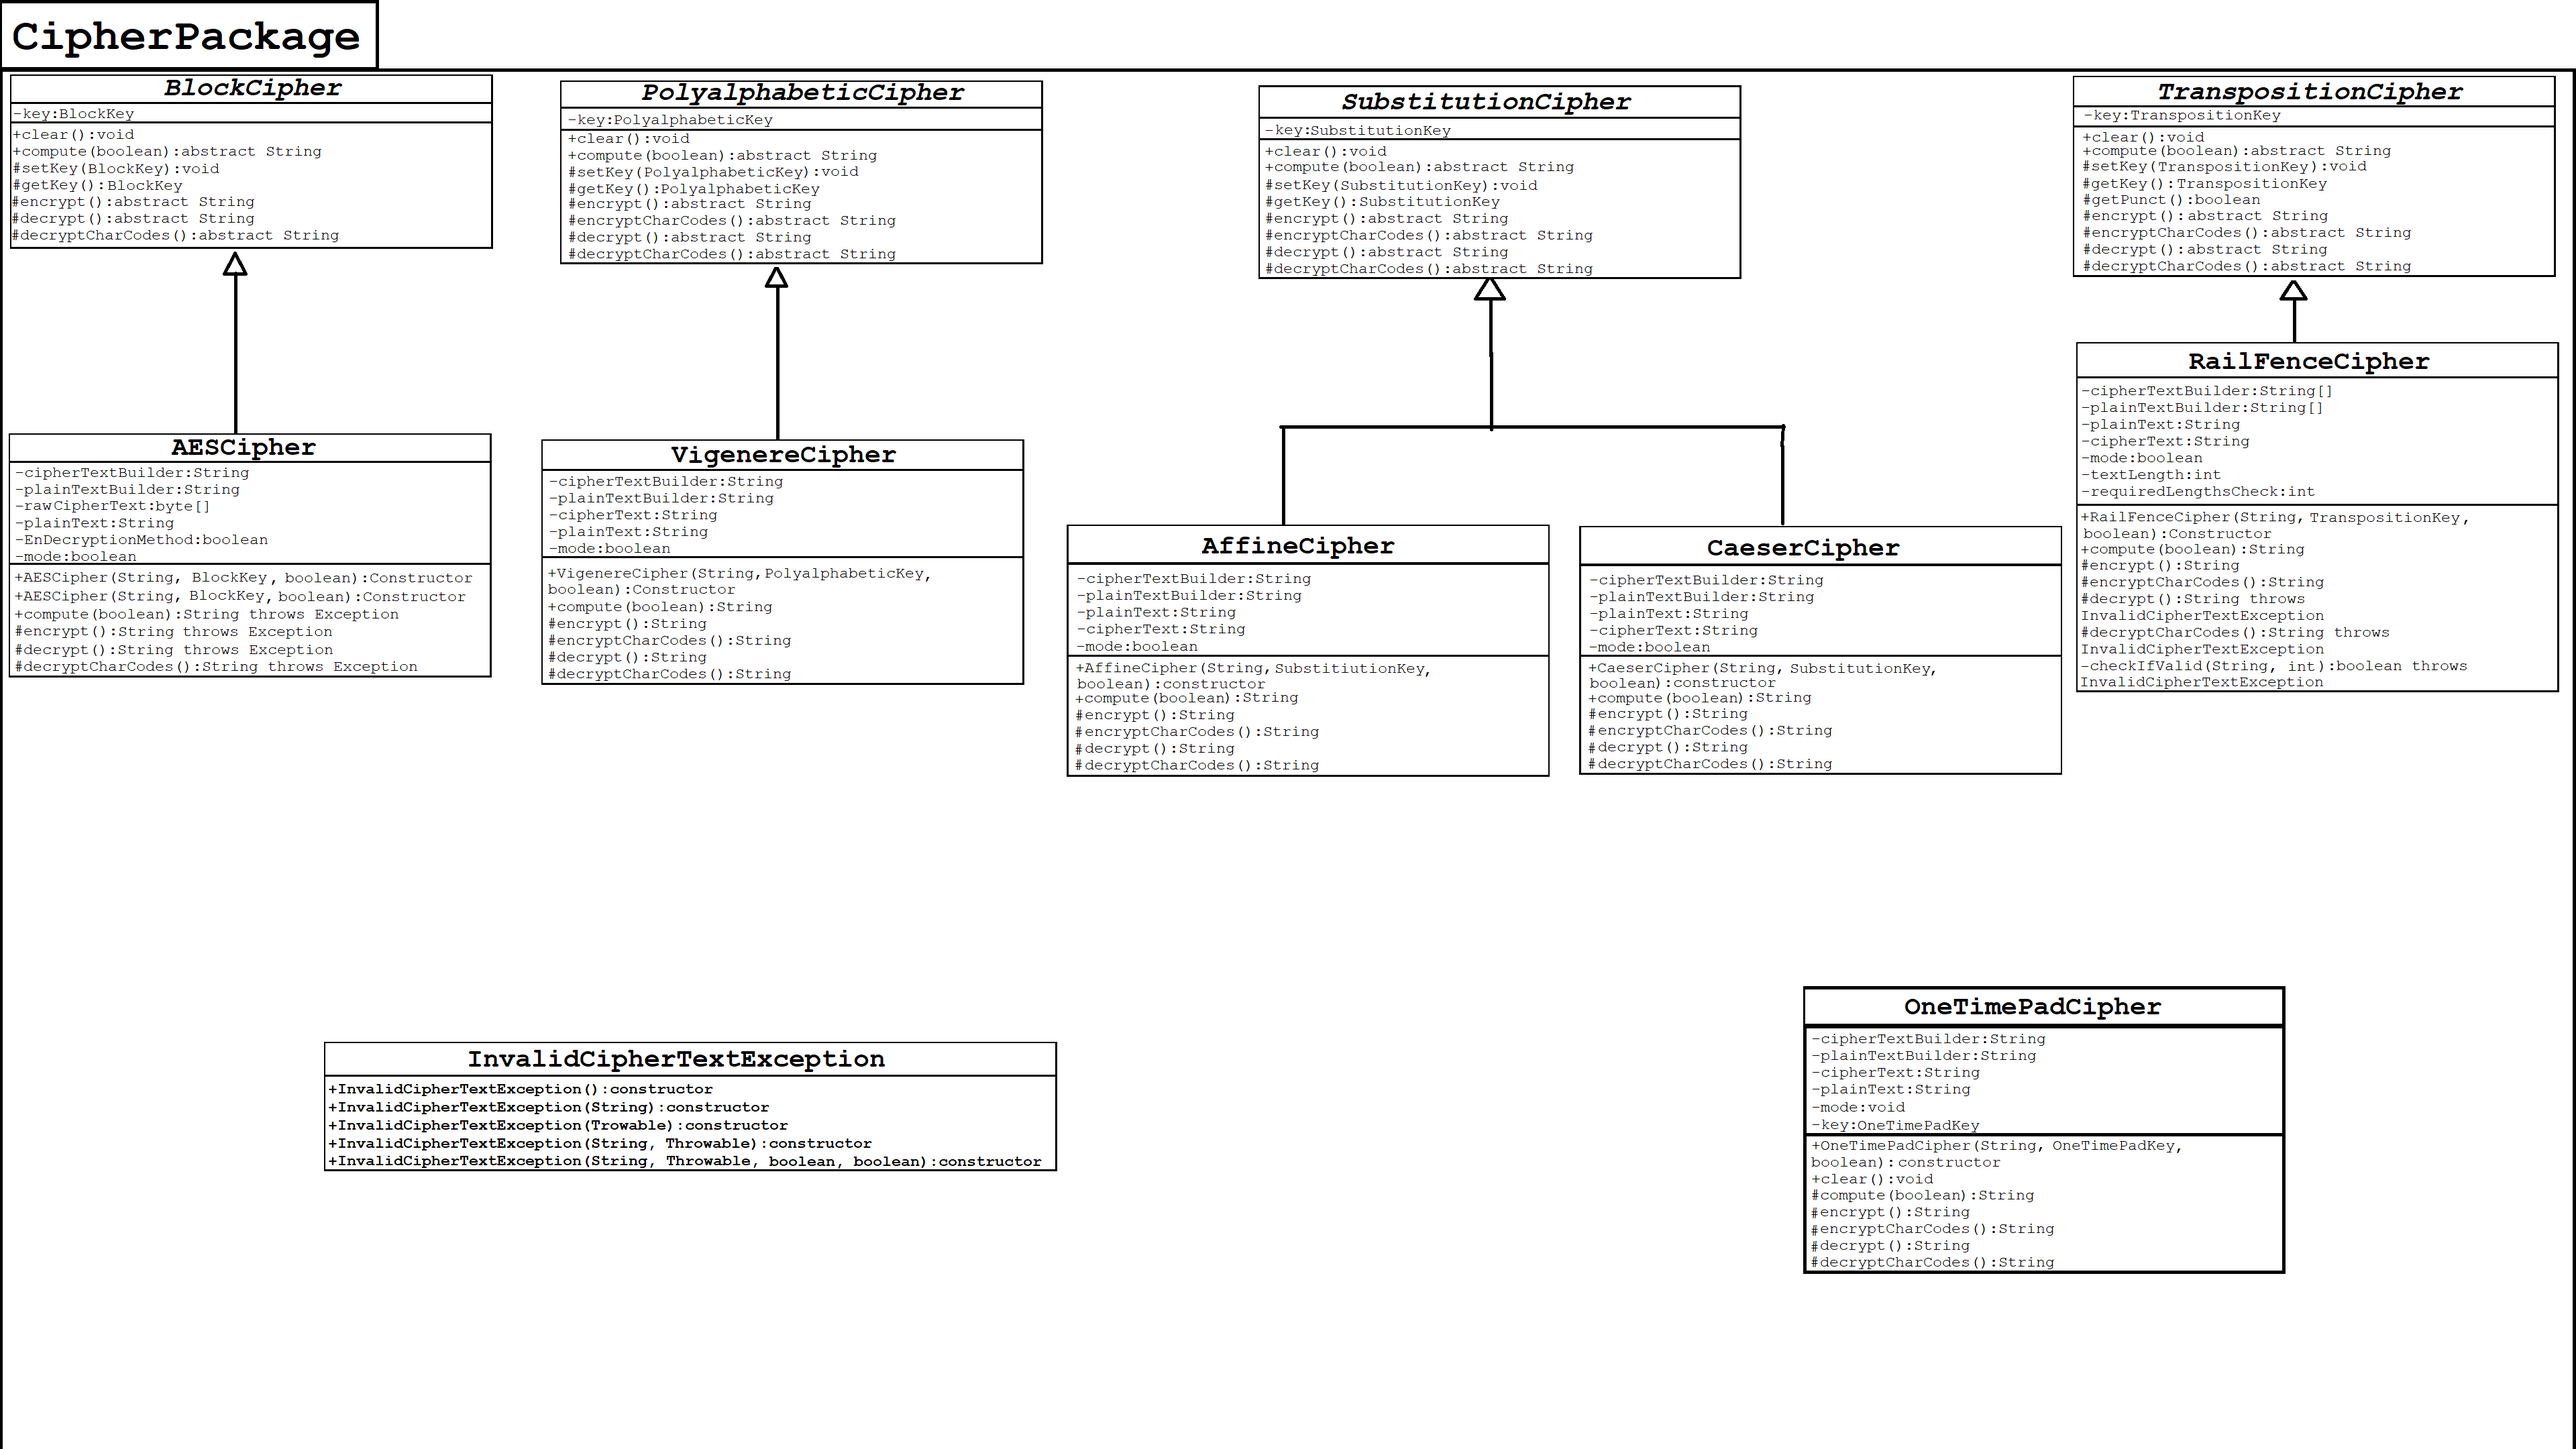
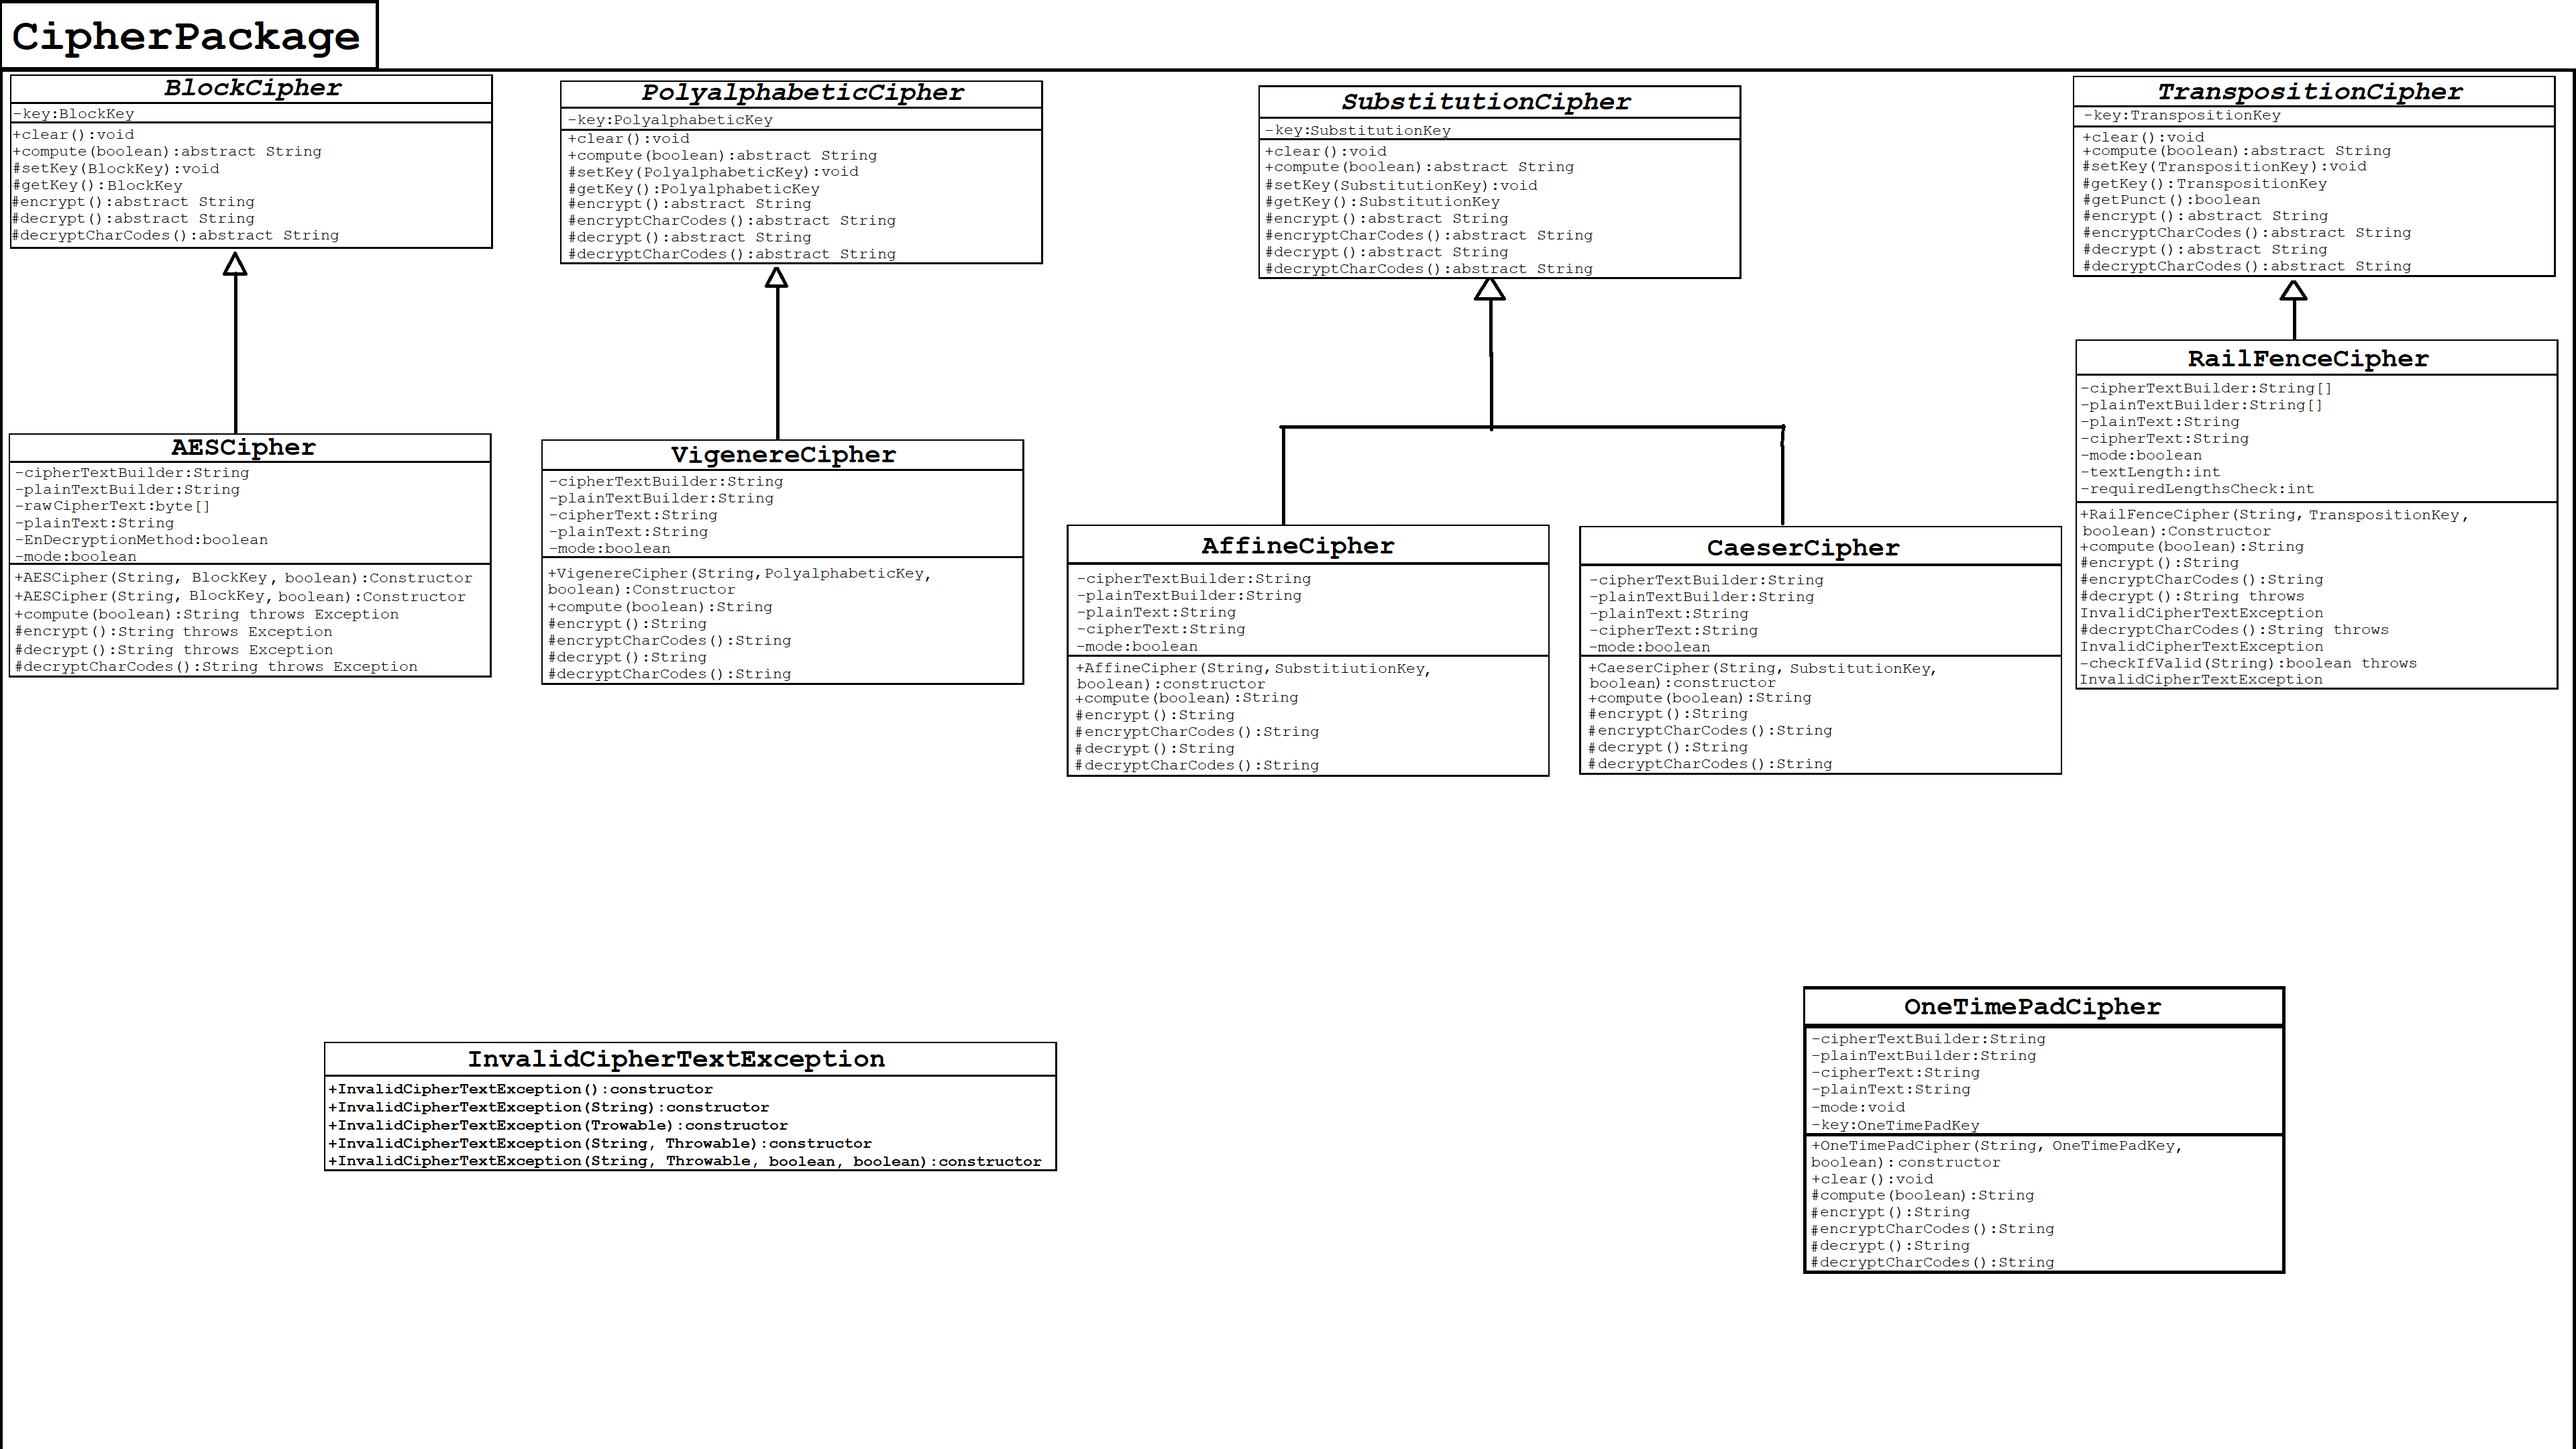
Created a Java file for RailFenceCipher, completed implementation of the abstract Java class file for TranspositionCipher, and updated the UML class component diagram for RailFenceCipher, and included updated UML Class Diagram of it into the UML component package diagram for CipherPackage.

Changed region(s): [[0.8125, 0.2171, 0.9688, 0.4963]]

diff --git a/Encryptor Decryptor File Encryption/src/Encryptor Decryptor File Ecryption/CipherPackage/TranspositionCipher.java b/Encryptor Decryptor File Encryption/src/Encryptor Decryptor File Ecryption/CipherPackage/TranspositionCipher.java
@@ -1,0 +1,54 @@
+/**
+ * 
+ */
+package CipherPackage;
+
+import CipherKeys.TranspositionKey;
+
+/**
+ * @author Amol Soneji
+ *
+ */
+public abstract class TranspositionCipher 
+{
+	
+	private TranspositionKey key;
+	
+	/**
+	 * 
+	 */
+	public TranspositionCipher() 
+	{
+		// TODO Auto-generated constructor stub
+	}
+	
+	public void clear()
+	{
+		key = null;
+	}
+	
+	public abstract String compute(boolean resultType);
+	
+	protected void setKey(TranspositionKey key)
+	{
+		this.key = key;
+	}
+	
+	protected TranspositionKey getKey()
+	{
+		return key;
+	}
+	
+	protected boolean getPunct()
+	{
+		return key.getUsePunct();
+	}
+	
+	protected abstract String encrypt();
+	
+	protected abstract String encryptCharCodes();
+	
+	protected abstract String decrypt();
+	
+	protected abstract String decryptCharCodes();
+}

diff --git a/Encryptor Decryptor File Encryption/src/Encryptor Decryptor File Ecryption/CipherPackage/RailFenceCipher.java b/Encryptor Decryptor File Encryption/src/Encryptor Decryptor File Ecryption/CipherPackage/RailFenceCipher.java
@@ -1,0 +1,49 @@
+/**
+ * 
+ */
+package CipherPackage;
+
+/**
+ * @author eon74
+ *
+ */
+public class RailFenceCipher extends TranspositionCipher {
+
+	/**
+	 * 
+	 */
+	public RailFenceCipher() {
+		// TODO Auto-generated constructor stub
+	}
+
+	@Override
+	public String compute(boolean resultType) {
+		// TODO Auto-generated method stub
+		return null;
+	}
+
+	@Override
+	protected String encrypt() {
+		// TODO Auto-generated method stub
+		return null;
+	}
+
+	@Override
+	protected String encryptCharCodes() {
+		// TODO Auto-generated method stub
+		return null;
+	}
+
+	@Override
+	protected String decrypt() {
+		// TODO Auto-generated method stub
+		return null;
+	}
+
+	@Override
+	protected String decryptCharCodes() {
+		// TODO Auto-generated method stub
+		return null;
+	}
+
+}
